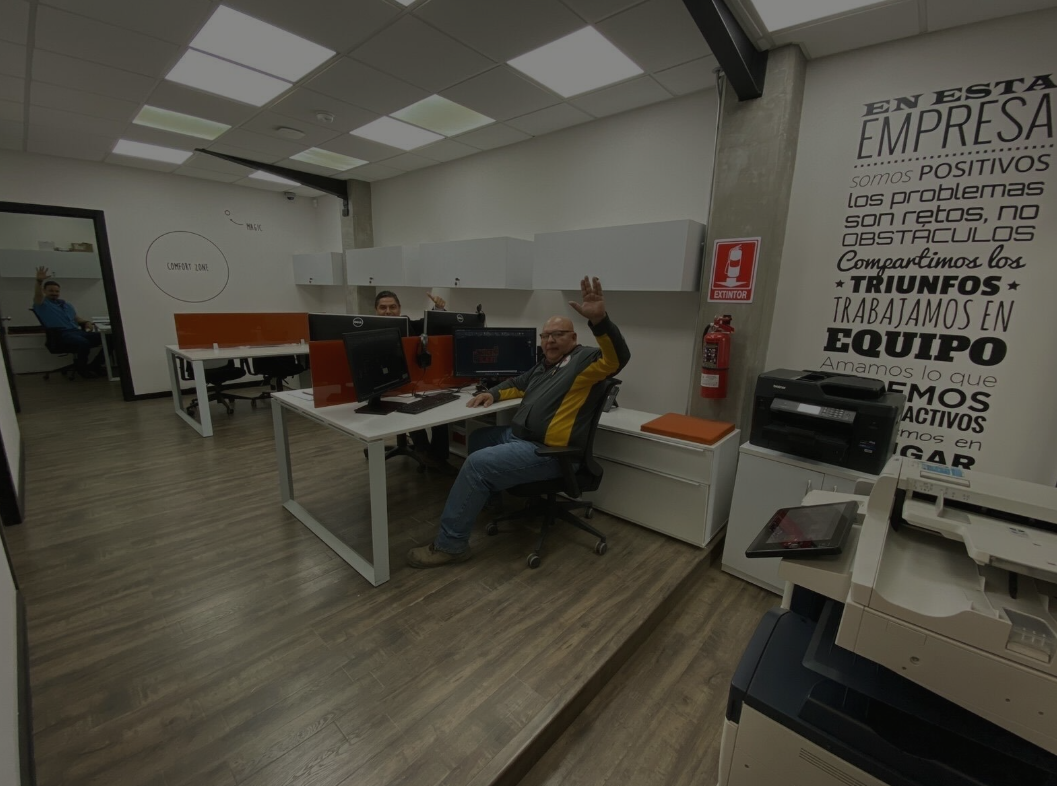
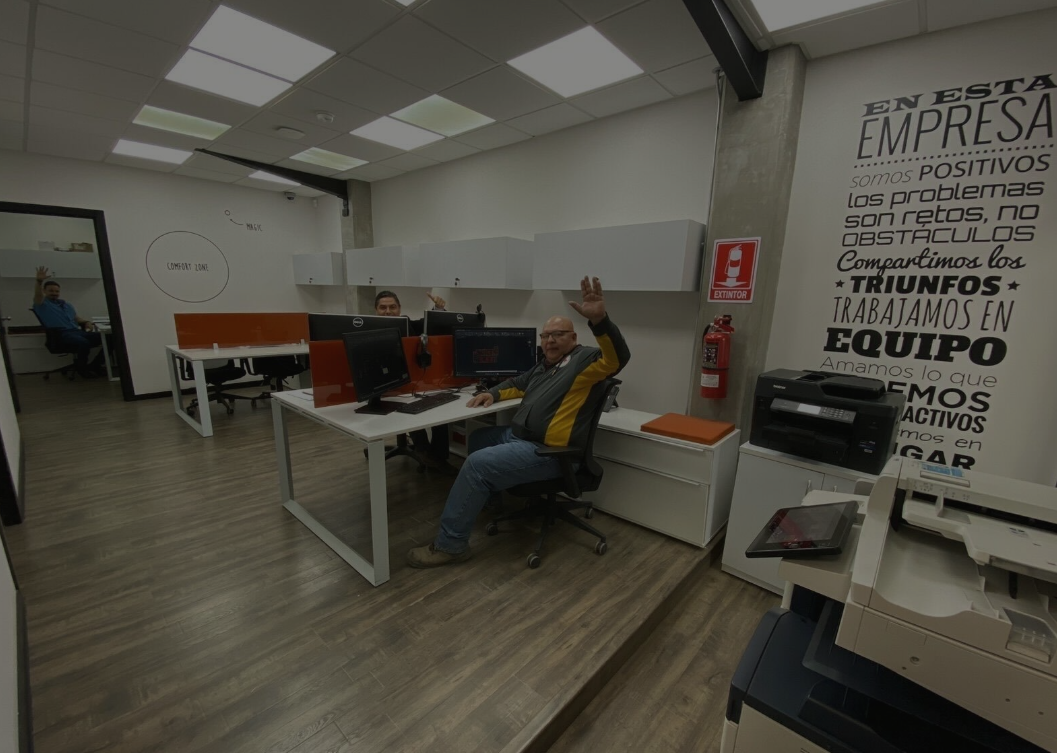
img fondo responsivo

diff --git a/homepage/templates/homepage/home_ruben.html b/homepage/templates/homepage/home_ruben.html
@@ -7,7 +7,7 @@
     <div class="texto">INNOVATIVE-NET</div>
 
     <P> INTEGRANDO IDEAS, CREANDO SOLUCIONES</P>
-<br><br>
+
 <a href="{% url "contacto" %}">
     <button class="btnini">
        <span>Contactanos</span> 
